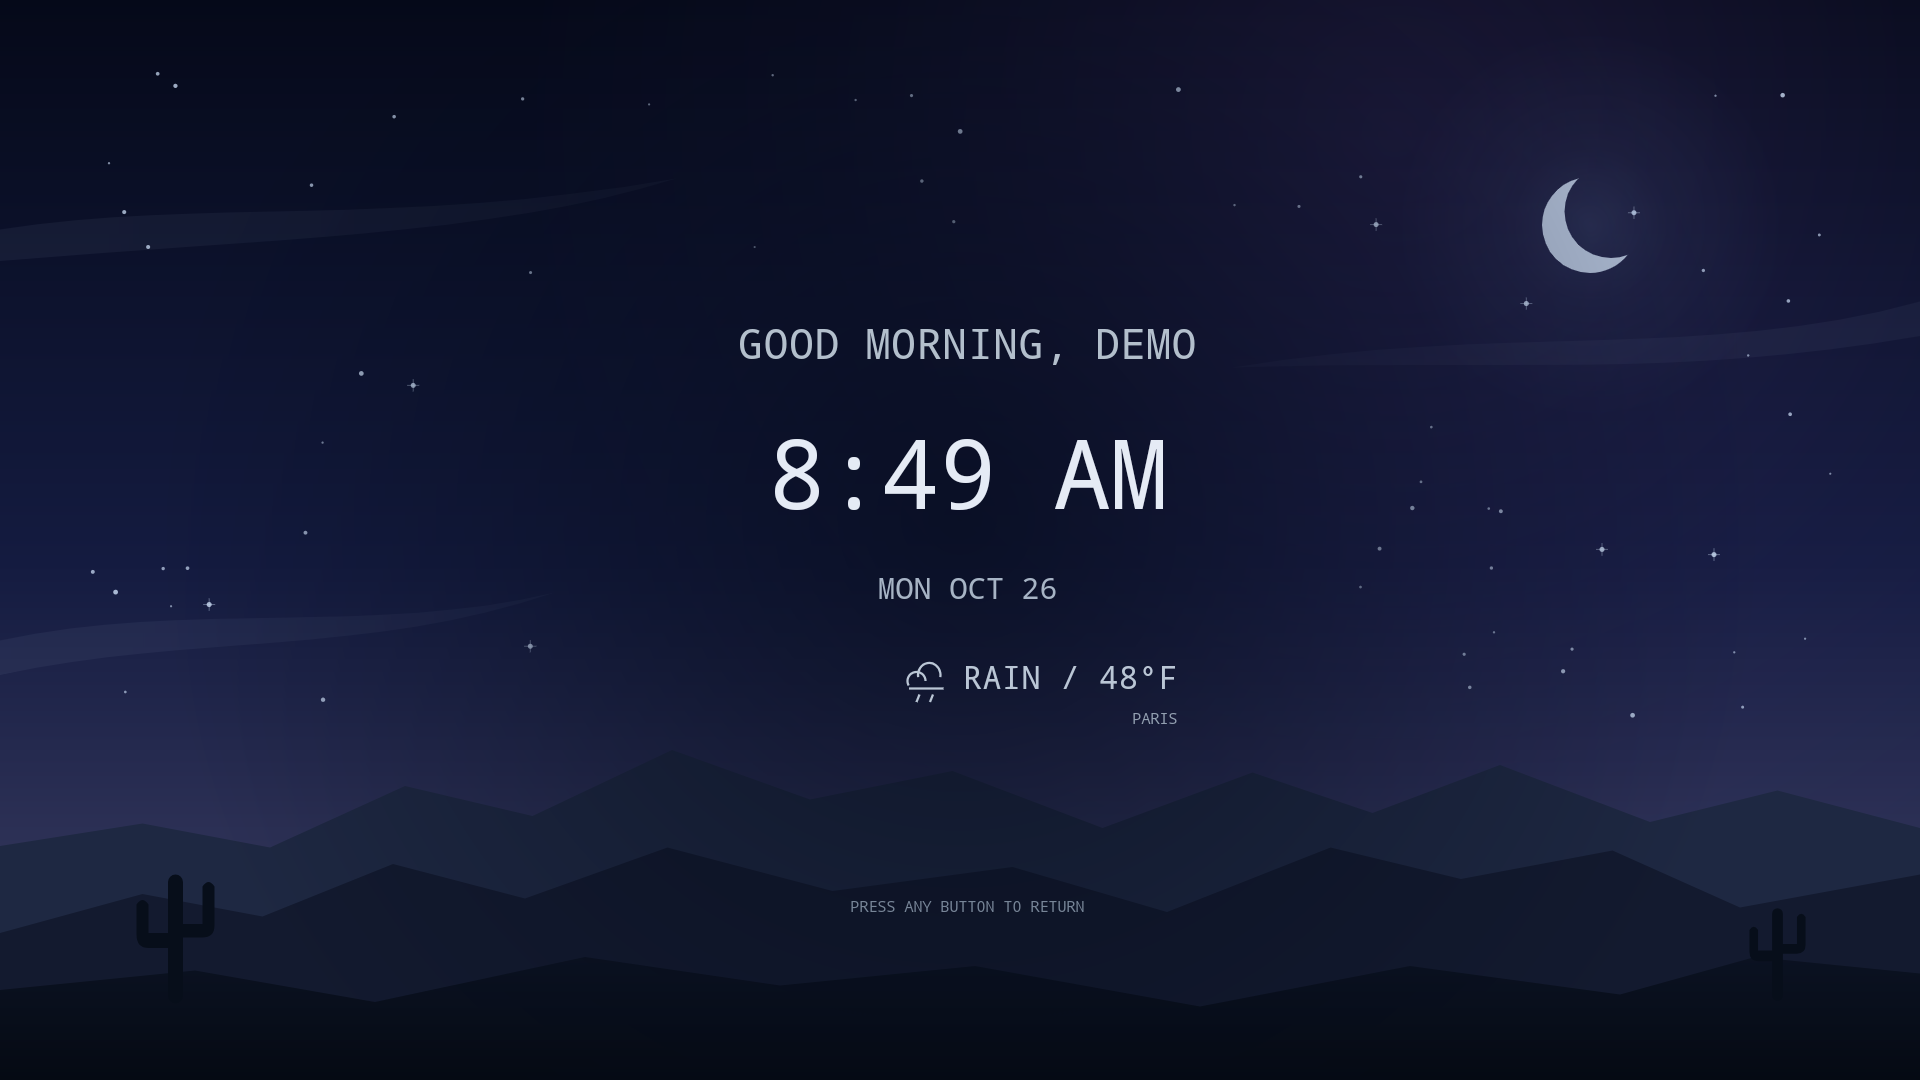
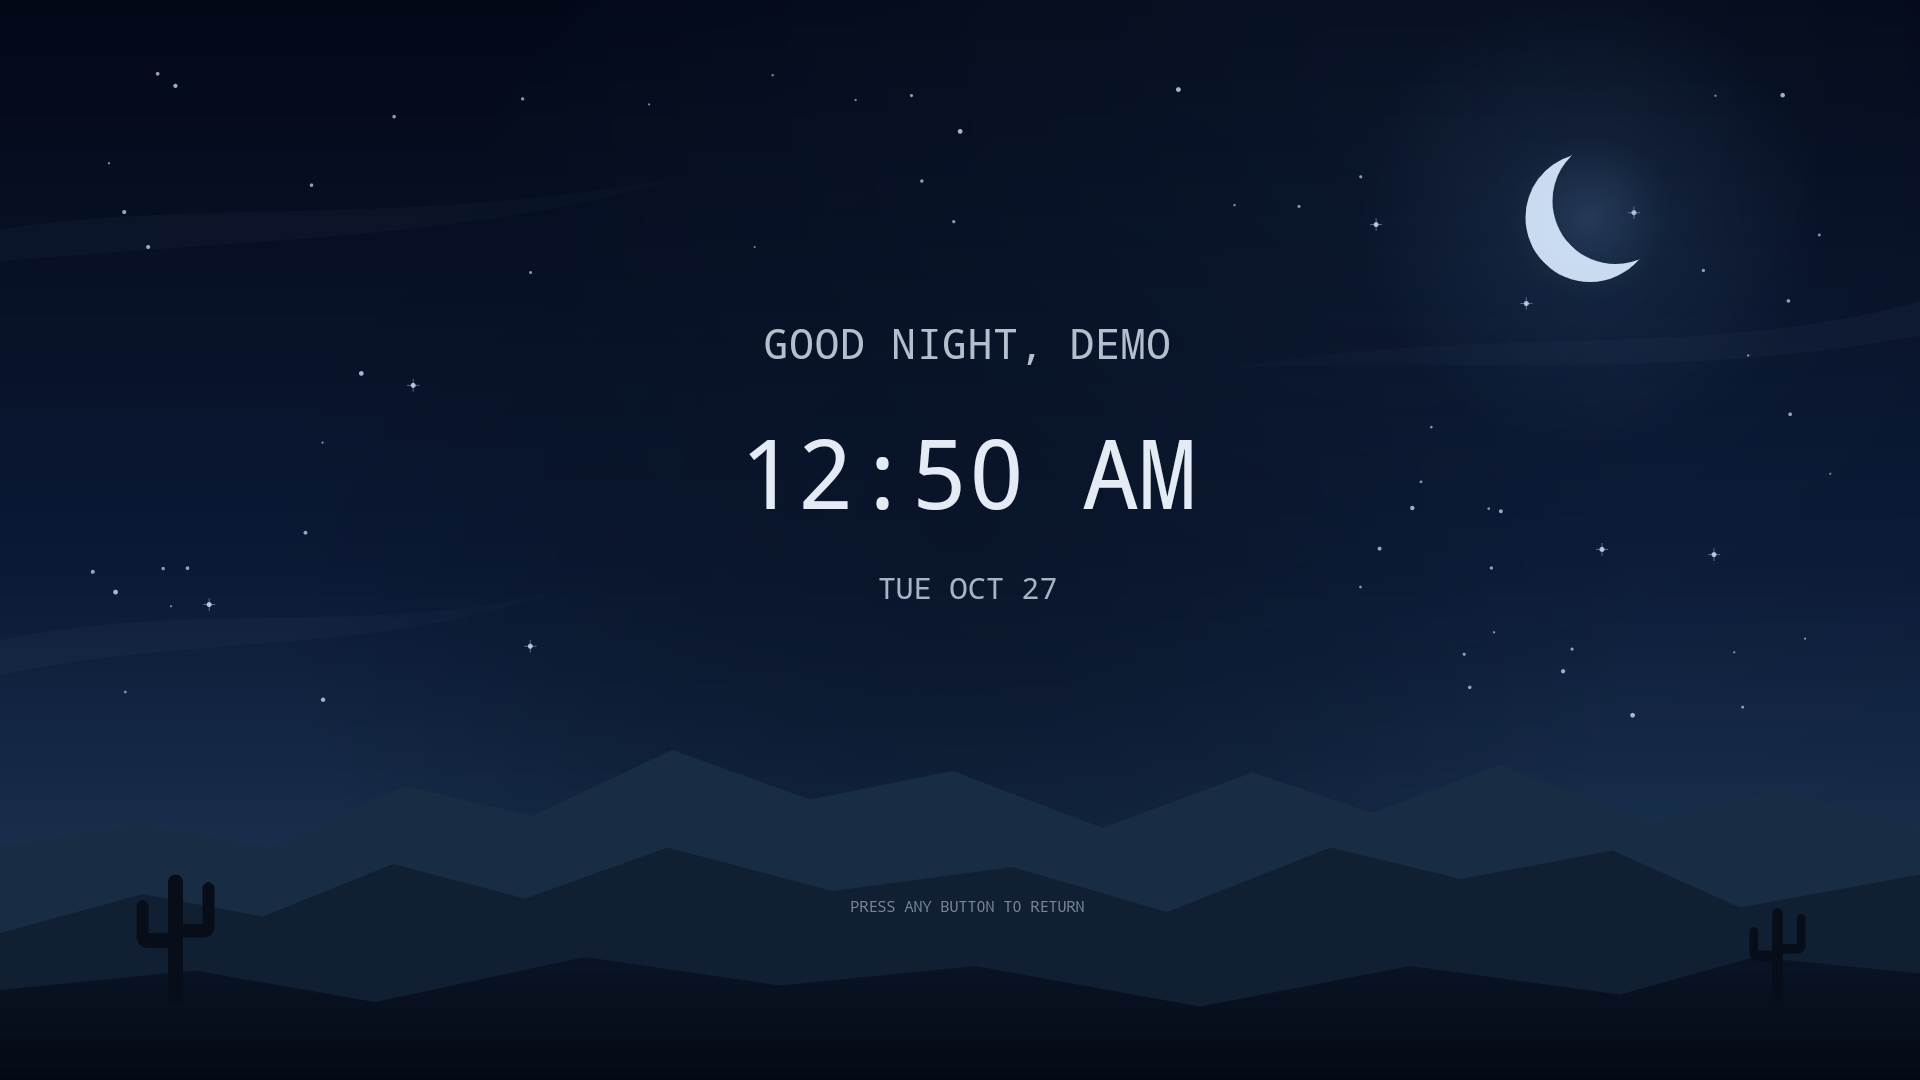
Give seasonal idle skies distinct morning, midday, sunset and night looks

diff --git a/app/src/com/quiettv/home/IdleSky.java b/app/src/com/quiettv/home/IdleSky.java
@@ -3,33 +3,36 @@ import android.graphics.*;
 
 /** Cached procedural sky. No animation loop or downloaded assets. */
 final class IdleSky {
-    private static final int[] TIMES={0,300,390,540,900,1065,1170,1260,1440};
+    // Night, predawn, sunrise, morning, solar noon, afternoon, sunset, twilight, night.
+    // SolarDay supplies dated anchors so the looks move with the seasons.
     private static final int[][] COLORS={
-        {0x050919,0x141b40,0x35385d,0xc3daf5},{0x10122f,0x4c305c,0xa95778,0xffc7a5},
-        {0x1d3056,0x9b5c7b,0xffb177,0xffe5b0},{0x102f50,0x226b86,0x77b9bb,0xffefbf},
-        {0x1b3b58,0x4c7c89,0xc6a477,0xffdda0},{0x241745,0xa94270,0xff994c,0xffd58b},
-        {0x101234,0x473569,0x9e5a86,0xd2ccff},{0x050919,0x141b40,0x35385d,0xc3daf5},
-        {0x050919,0x141b40,0x35385d,0xc3daf5}
+        {0x030817,0x0b1935,0x1c3552,0xc5e1ff},{0x0e2144,0x3e6683,0xb8a3a5,0xffe0b1},
+        {0x183d64,0x638c9e,0xf3b88a,0xffe9b5},{0x23566e,0x679d9c,0xd5dcb3,0xfff2ce},
+        {0x174b78,0x388caf,0xa0ced7,0xfff5dd},{0x243f6b,0x597f99,0xd6b18c,0xffe0a3},
+        {0x2e153f,0x8c3d5c,0xf6874c,0xffc47c},{0x111333,0x39315c,0x9a5775,0xe3d4ff},
+        {0x030817,0x0b1935,0x1c3552,0xc5e1ff},{0x030817,0x0b1935,0x1c3552,0xc5e1ff}
     };
     private final Paint paint=new Paint(Paint.ANTI_ALIAS_FLAG);
     private final Path far=new Path(),middle=new Path(),near=new Path(),moon=new Path(),cacti=new Path();
     private final Path cloudLeft=new Path(),cloudRight=new Path(),cloudLow=new Path();
-    private final Path sun=new Path();
+    private final Path sun=new Path(),sunsetBands=new Path();
     private final float[] starPoints=new float[64*3];
-    private final Shader centerShade=new RadialGradient(640,345,540,new int[]{0xb0040a19,0x40040a19,0x00040a19},new float[]{0,.62f,1},Shader.TileMode.CLAMP);
-    private final Shader moonHalo=new RadialGradient(1060,150,130,new int[]{0x34677eaf,0x14677eaf,0x00677eaf},new float[]{0,.4f,1},Shader.TileMode.CLAMP);
-    private final Shader nebula=new RadialGradient(930,90,590,new int[]{0x35694c9e,0x0c694c9e,0x00694c9e},new float[]{0,.65f,1},Shader.TileMode.CLAMP);
-    private Shader sky,halo,horizonGlow,land,cloudColor,orb;
+    private final Shader centerShade=new RadialGradient(640,345,460,new int[]{0xa3071122,0x55071122,0x00071122},new float[]{0,.56f,1},Shader.TileMode.CLAMP);
+    private final Shader moonHalo=new RadialGradient(1060,145,155,new int[]{0x456b9ed0,0x166b9ed0,0x006b9ed0},new float[]{0,.35f,1},Shader.TileMode.CLAMP);
+    private final Shader nebula=new RadialGradient(930,90,590,new int[]{0x222c527f,0x0a2c527f,0x002c527f},new float[]{0,.65f,1},Shader.TileMode.CLAMP);
+    private Shader sky,halo,horizonGlow,land,cloudColor,orb,mist;
     private int cachedMinute=-1,cachedRise=-1,cachedSet=-1,sunColor,farColor,middleColor;
-    private float sunX,sunY,daylight,stars,sunOpacity,warmth;
+    private float sunX,sunY,daylight,stars,sunOpacity,warmth,dusk,morningMist,sunRadius;
     IdleSky(){
         ridge(far,new float[]{0,564,95,549,180,565,270,524,355,544,448,500,540,533,635,514,735,552,835,515,915,542,1000,510,1100,548,1185,527,1280,552});
         ridge(middle,new float[]{0,622,95,596,175,611,262,576,350,599,445,565,555,594,675,578,778,608,887,565,974,586,1075,567,1160,605,1280,583});
         ridge(near,new float[]{0,660,130,647,250,668,390,638,520,657,650,644,800,671,940,644,1080,663,1170,638,1280,649});
-        moon.addCircle(0,0,32,Path.Direction.CW);Path cut=new Path();cut.addCircle(14,-9,31,Path.Direction.CW);moon.op(cut,Path.Op.DIFFERENCE);
+        moon.addCircle(0,0,43,Path.Direction.CW);Path cut=new Path();cut.addCircle(17,-11,42,Path.Direction.CW);moon.op(cut,Path.Op.DIFFERENCE);
         cloudLeft.moveTo(0,153);cloudLeft.cubicTo(135,132,261,152,451,119);cloudLeft.cubicTo(326,158,174,159,0,174);cloudLeft.close();
         cloudRight.moveTo(822,245);cloudRight.cubicTo(1003,215,1135,241,1280,201);cloudRight.lineTo(1280,224);cloudRight.cubicTo(1111,253,1008,239,822,245);cloudRight.close();
         cloudLow.moveTo(0,427);cloudLow.cubicTo(125,400,249,424,370,395);cloudLow.cubicTo(243,438,130,422,0,450);cloudLow.close();
+        sunsetBands.moveTo(775,393);sunsetBands.cubicTo(939,368,1124,383,1280,350);sunsetBands.lineTo(1280,361);sunsetBands.cubicTo(1110,395,936,381,775,393);sunsetBands.close();
+        sunsetBands.moveTo(892,452);sunsetBands.cubicTo(1038,431,1182,449,1280,423);sunsetBands.lineTo(1280,432);sunsetBands.cubicTo(1154,460,1020,441,892,452);sunsetBands.close();
         cactus(117,667,1);cactus(1185,666,.72f);
         java.util.Random random=new java.util.Random(418);
         for(int i=0;i<64;i++){float x,y;do{x=55+random.nextFloat()*1170;y=45+random.nextFloat()*465;}while(x>365&&x<900&&y>180&&y<505);starPoints[i*3]=x;starPoints[i*3+1]=y;starPoints[i*3+2]=.65f+random.nextFloat()*1.05f;}
@@ -46,32 +49,43 @@ final class IdleSky {
     private static int mix(int a,int b,float t){return Color.rgb(Math.round(Color.red(a)+(Color.red(b)-Color.red(a))*t),Math.round(Color.green(a)+(Color.green(b)-Color.green(a))*t),Math.round(Color.blue(a)+(Color.blue(b)-Color.blue(a))*t));}
     private static int alpha(int color,int a){return (color&0xffffff)|(Math.max(0,Math.min(255,a))<<24);}
     private void prepare(int minute,int rise,int set,boolean seasonal){
-        int keyRise=seasonal?rise:-1,keySet=seasonal?set:-1;if(minute==cachedMinute&&keyRise==cachedRise&&keySet==cachedSet)return;
-        cachedMinute=minute;cachedRise=keyRise;cachedSet=keySet;int[] times=seasonal?SolarDay.anchors(rise,set):TIMES;int i=0;while(i<times.length-2&&minute>=times[i+1])i++;
+        if(!seasonal){rise=360;set=1110;}
+        if(minute==cachedMinute&&rise==cachedRise&&set==cachedSet)return;
+        cachedMinute=minute;cachedRise=rise;cachedSet=set;int[] times=SolarDay.anchors(rise,set);int i=0;while(i<times.length-2&&minute>=times[i+1])i++;
         float blend=smooth((minute-times[i])/(float)(times[i+1]-times[i]));
         int top=mix(COLORS[i][0],COLORS[i+1][0],blend),mid=mix(COLORS[i][1],COLORS[i+1][1],blend),horizon=mix(COLORS[i][2],COLORS[i+1][2],blend);
         sunColor=mix(COLORS[i][3],COLORS[i+1][3],blend);sky=new LinearGradient(0,0,0,625,new int[]{top,mid,horizon},new float[]{0,.60f,1},Shader.TileMode.CLAMP);
-        daylight=seasonal?smooth((minute-(rise-40))/55f)*(1-smooth((minute-(set-15))/60f)):smooth((minute-315)/105f)*(1-smooth((minute-1080)/90f));stars=1-daylight;
-        sunOpacity=seasonal?smooth((minute-rise)/12f)*(1-smooth((minute-(set-12))/12f)):daylight;
-        float progress=seasonal?clamp((minute-rise)/(float)(set-rise)):clamp((minute-360)/750f);
-        warmth=1-smooth(Math.min(Math.abs(minute-rise),Math.abs(minute-set))/115f);
-        sunX=210+860*progress;sunY=565-440*(float)Math.sin(Math.PI*progress);
-        halo=new RadialGradient(sunX,sunY,320,new int[]{alpha(sunColor,Math.round((90+70*warmth)*daylight)),alpha(sunColor,Math.round(35*daylight)),alpha(sunColor,0)},new float[]{0,.4f,1},Shader.TileMode.CLAMP);
-        horizonGlow=new RadialGradient(sunX,585,560,new int[]{alpha(0xffffa568,Math.round(85*warmth)),alpha(0xffff725d,Math.round(35*warmth)),0x00ff725d},new float[]{0,.4f,1},Shader.TileMode.CLAMP);
-        cloudColor=new LinearGradient(0,0,1280,0,new int[]{alpha(sunColor,Math.round(42*daylight+14*stars)),alpha(sunColor,8),alpha(sunColor,Math.round(50*daylight+12*stars))},new float[]{0,.5f,1},Shader.TileMode.CLAMP);
-        orb=new LinearGradient(0,sunY-46,0,sunY+46,0xfffff1cb,mix(0xffffa15f,sunColor,1-warmth),Shader.TileMode.CLAMP);
-        sun.reset();sun.addCircle(sunX,sunY,46,Path.Direction.CW);
-        if(warmth>.01f){Path gaps=new Path();for(int stripe=0;stripe<4;stripe++){float y=sunY+8+stripe*10;gaps.addRect(sunX-50,y,sunX+50,y+(2+stripe*.7f)*warmth,Path.Direction.CW);}sun.op(gaps,Path.Op.DIFFERENCE);}
-        farColor=mix(0xff18243b,horizon,.22f);middleColor=mix(0xff10182c,horizon,.07f);land=new LinearGradient(0,635,0,720,0xff0b1222,0xff050a13,Shader.TileMode.CLAMP);
+        daylight=smooth((minute-(rise-40))/55f)*(1-smooth((minute-(set-15))/60f));stars=1-daylight;
+        sunOpacity=smooth((minute-rise)/12f)*(1-smooth((minute-(set-12))/12f));
+        float progress=clamp((minute-rise)/(float)(set-rise));
+        warmth=1-smooth(Math.min(Math.abs(minute-rise),Math.abs(minute-set))/105f);
+        dusk=smooth((progress-.5f)/.35f)*warmth;
+        morningMist=(1-smooth(progress/.42f))*daylight;
+        sunX=210+860*progress;sunY=562-451*(float)Math.sin(Math.PI*progress);sunRadius=34+8*warmth+26*dusk;
+        halo=new RadialGradient(sunX,sunY,260+80*warmth,new int[]{alpha(sunColor,Math.round((35+85*warmth)*sunOpacity)),alpha(sunColor,Math.round(22*sunOpacity)),alpha(sunColor,0)},new float[]{0,.4f,1},Shader.TileMode.CLAMP);
+        int glow=mix(0xffffd39f,0xffff793f,smooth(progress));
+        horizonGlow=new RadialGradient(sunX,570,500,new int[]{alpha(glow,Math.round((55+45*dusk)*warmth)),alpha(glow,Math.round(24*warmth)),alpha(glow,0)},new float[]{0,.4f,1},Shader.TileMode.CLAMP);
+        mist=new LinearGradient(0,380,0,570,new int[]{0x00c4e2ea,alpha(0xffc4e2ea,Math.round(40*morningMist)),0x00c4e2ea},new float[]{0,.72f,1},Shader.TileMode.CLAMP);
+        cloudColor=new LinearGradient(0,0,1280,0,new int[]{alpha(sunColor,Math.round(52*daylight+7*stars)),alpha(sunColor,5),alpha(sunColor,Math.round(58*daylight+7*stars))},new float[]{0,.5f,1},Shader.TileMode.CLAMP);
+        orb=new LinearGradient(0,sunY-sunRadius,0,sunY+sunRadius,0xfffff6dc,mix(sunColor,0xffff925b,dusk*.8f),Shader.TileMode.CLAMP);
+        sun.reset();sun.addCircle(sunX,sunY,sunRadius,Path.Direction.CW);
+        // The larger banded western sun belongs to dusk; dawn stays clear and soft.
+        if(dusk>.01f){Path gaps=new Path();for(int stripe=0;stripe<5;stripe++){float y=sunY+2+stripe*11;gaps.addRect(sunX-70,y,sunX+70,y+(2+stripe*.8f)*dusk,Path.Direction.CW);}sun.op(gaps,Path.Op.DIFFERENCE);}
+        farColor=mix(0xff17283e,horizon,.27f);middleColor=mix(0xff101c30,horizon,.10f);land=new LinearGradient(0,635,0,720,0xff0a1425,0xff040a15,Shader.TileMode.CLAMP);
     }
     void draw(Canvas canvas,int minute,int rise,int set,boolean seasonal){
         minute=((minute%1440)+1440)%1440;prepare(minute,rise,set,seasonal);paint.setStyle(Paint.Style.FILL);paint.setAlpha(255);paint.setShader(sky);canvas.drawRect(0,0,1280,720,paint);
         paint.setShader(nebula);paint.setAlpha(Math.round(255*stars));canvas.drawRect(0,0,1280,720,paint);paint.setAlpha(255);
-        paint.setShader(horizonGlow);canvas.drawRect(0,0,1280,720,paint);paint.setShader(cloudColor);canvas.drawPath(cloudLeft,paint);canvas.drawPath(cloudRight,paint);canvas.drawPath(cloudLow,paint);paint.setShader(null);
+        paint.setShader(horizonGlow);canvas.drawRect(0,0,1280,720,paint);paint.setShader(mist);canvas.drawRect(0,380,1280,570,paint);
+        paint.setShader(cloudColor);canvas.drawPath(cloudLeft,paint);canvas.drawPath(cloudRight,paint);canvas.drawPath(cloudLow,paint);paint.setShader(null);
+        paint.setColor(alpha(0xffffba91,Math.round(94*dusk)));canvas.drawPath(sunsetBands,paint);
+        // Shade the text's sky backdrop without turning the sun or moon grey.
+        paint.setAlpha(255);paint.setShader(centerShade);canvas.drawRect(0,0,1280,720,paint);paint.setShader(null);
         if(stars>.01f)for(int j=0;j<64;j++){float x=starPoints[j*3],y=starPoints[j*3+1],r=starPoints[j*3+2];paint.setColor(alpha(0xffd5e7ff,Math.round((100+60*r)*stars)));canvas.drawCircle(x,y,r,paint);if(r>1.6f){paint.setStrokeWidth(.65f);paint.setAlpha(Math.round(100*stars));canvas.drawLine(x-4,y,x+4,y,paint);canvas.drawLine(x,y-4,x,y+4,paint);}}
-        paint.setShader(moonHalo);paint.setAlpha(Math.round(255*stars));canvas.drawRect(900,0,1220,320,paint);paint.setShader(null);paint.setColor(alpha(0xffd2e2f7,Math.round(205*stars)));canvas.save();canvas.translate(1060,150);canvas.drawPath(moon,paint);canvas.restore();
+        paint.setShader(moonHalo);paint.setAlpha(Math.round(255*stars));canvas.drawRect(900,0,1220,320,paint);paint.setShader(null);paint.setColor(alpha(0xffd9eaff,Math.round(235*stars)));canvas.save();canvas.translate(1060,145);canvas.drawPath(moon,paint);canvas.restore();
         paint.setAlpha(255);paint.setShader(halo);canvas.drawRect(0,0,1280,625,paint);paint.setShader(orb);paint.setAlpha(Math.round(240*sunOpacity));canvas.drawPath(sun,paint);paint.setShader(null);
         paint.setColor(farColor);canvas.drawPath(far,paint);paint.setColor(middleColor);canvas.drawPath(middle,paint);paint.setAlpha(255);paint.setShader(land);canvas.drawPath(near,paint);paint.setShader(null);paint.setColor(0xff070e1a);canvas.drawPath(cacti,paint);
-        paint.setAlpha(255);paint.setShader(centerShade);canvas.drawRect(0,0,1280,720,paint);paint.setShader(null);
     }
 }
+
+

diff --git a/app/src/com/quiettv/home/MainActivity.java b/app/src/com/quiettv/home/MainActivity.java
@@ -101,7 +101,7 @@ public class MainActivity extends Activity {
         try{org.json.JSONArray rows=new org.json.JSONArray(value);for(int i=0;i<Math.min(16,rows.length());i++){org.json.JSONObject row=rows.getJSONObject(i);SolarDay day=SolarDay.forDate(row.optLong("rise",0),row.optLong("set",0),now);if(day!=null){cachedSolarDay=day;break;}}}catch(org.json.JSONException ignored){}
         return cachedSolarDay;
     }
-    int previewSkyMinute(int choice){SolarDay day=solarDay();return day==null?new int[]{-1,390,720,1065,1320}[choice]:day.previewMinute(choice);}
+    int previewSkyMinute(int choice){SolarDay day=solarDay();return day==null?new int[]{-1,372,547,735,1098,1230}[choice]:day.previewMinute(choice);}
     void solarInfo(){
         SolarDay day=solarDay();TvProfile.City city=profileCity();String message=(city==null?"Choose a city in Settings → City and time":city.label())+" / "+TvProfile.zone().getID()+"\n\n";
         if(day==null)message+="Daily sun times are unavailable. The sky temporarily uses preset times until it can refresh.";
@@ -307,7 +307,7 @@ public class MainActivity extends Activity {
         String[] items={"Choose idle delay","Preview idle screen",prefs.getBoolean("keepQuietScreen",true)?"Keep Quiet TV on screen: On":"Keep Quiet TV on screen: Off","Idle background","Today's sun times"};
         menu("Idle clock",items,(d,n)->{
             if(n==0)choice("Show idle clock after","idleMinutes",new String[]{"Never","2 minutes","5 minutes","10 minutes"},new int[]{0,2,5,10},2);
-            else if(n==1)showDialog(new AlertDialog.Builder(this).setTitle("Preview idle sky").setItems(new String[]{"Current time","Sunrise","Daylight","Sunset","Night"},(page,index)->{closeSettings();enterIdle(previewSkyMinute(index));}).setNegativeButton("Back",null).create());
+            else if(n==1)showDialog(new AlertDialog.Builder(this).setTitle("Preview idle sky").setItems(new String[]{"Current time","Sunrise","Morning","Midday","Sunset","Night"},(page,index)->{closeSettings();enterIdle(previewSkyMinute(index));}).setNegativeButton("Back",null).create());
             else if(n==2){boolean enabled=!prefs.getBoolean("keepQuietScreen",true);prefs.edit().putBoolean("keepQuietScreen",enabled).apply();updateScreenHold();updateMenu(d,items,2,enabled?"Keep Quiet TV on screen: On":"Keep Quiet TV on screen: Off");}
             else if(n==3)choice("Idle background","idleSky",new String[]{"Time-of-day sky","Classic plain background"},new int[]{1,0},1);else solarInfo();
         });

diff --git a/app/src/com/quiettv/home/SolarDay.java b/app/src/com/quiettv/home/SolarDay.java
@@ -16,6 +16,6 @@ final class SolarDay {
         int r=minute(rise),s=minute(set);if(r<120||s>1320||s<=r)return null;
         return new SolarDay(rise,set);
     }
-    int previewMinute(int choice){if(choice==1)return riseMinute+12;if(choice==2)return (riseMinute+setMinute)/2;if(choice==3)return setMinute-12;if(choice==4)return Math.min(1439,setMinute+120);return -1;}
-    static int[] anchors(int rise,int set){int noon=(rise+set)/2;return new int[]{0,rise-60,rise,rise+(noon-rise)/2,noon+(set-noon)/2,set,set+35,set+90,1440};}
+    int previewMinute(int choice){int noon=(riseMinute+setMinute)/2;if(choice==1)return riseMinute+12;if(choice==2)return riseMinute+(noon-riseMinute)/2;if(choice==3)return noon;if(choice==4)return setMinute-12;if(choice==5)return Math.min(1439,setMinute+120);return -1;}
+    static int[] anchors(int rise,int set){int noon=(rise+set)/2;return new int[]{0,rise-60,rise+12,rise+(noon-rise)/2,noon,noon+(set-noon)/2,set-12,set+35,set+90,1440};}
 }

diff --git a/docs/VALIDATION.md b/docs/VALIDATION.md
@@ -106,3 +106,9 @@ On the personal TV, a normal app-context schedule refresh included the real next
 +
 +3,947 deterministic Android-runtime checks cover viewport bounds, every selection in lists of up to 100 records, one/two-card capacities, stable focus, reorder/removal, expiry/empty behavior, and retaining more than two live records. A separate preview installation on the TV used clearly labeled five-match demo records to verify real remote scrolling to matches three and five, correct selected IDs for watch actions, fixed footer positions, Upcoming/Past opening and Back, wraparound, Left/Right app navigation, refresh/removal selection, the hundredth record, and stale-LIVE removal. The capture showed demo matches four/five with the 4–5 / 5 indicator. No demo records were saved to the personal application or provider cache. Preview/test packages were removed after verification. Actual simultaneous multi-match playback was not available for an end-to-end real-broadcast test; the existing stream resolver/launcher path is unchanged.
 +
+
+## Distinct seasonal idle skies
+
+Sunrise has a soft, clear eastern sun and cool peach horizon; morning shifts to sage and pale gold; midday has a blue sky and small high sun; sunset has a larger banded western sun, coral horizon and plum sky; night has a brighter crescent, static stars and deeper navy. A dedicated solar-noon palette anchor separates morning from afternoon. The center sky is shaded for text contrast without dimming celestial objects. Sunrise/sunset and all intermediate anchors still follow the validated daily solar events; unavailable solar data uses the existing fallback daylight period. No new service, permission, download, animation loop or refresh interval was added. Paths and gradients remain cached between minute/day changes. Settings now includes separate Morning and Midday previews.
+
+The production and shared preview builds passed. A separate preview package on the Fire TV passed 89 checks covering cached shader reuse, distinct dawn/dusk palettes and sun positions, night visibility, ordered anchors across accepted short/long daylight bounds, color continuity at boundaries and midnight, changed-day cache invalidation, all five preview choices and remote wake. Five full device captures were visually reviewed for scene identity and text legibility. Preview fixtures used a generic Demo profile and representative dated solar times; the displayed clock/greeting stayed live. The personalized installation was updated without clearing data; its preview picker was checked through the remote interface. The previous signed APK and source were retained. Full-day real-time observation and instrumented power measurements were not performed.

diff --git a/README.md b/README.md
@@ -10,7 +10,7 @@ Quiet TV is a lightweight, customizable Fire TV launcher built to clear away the
 
 The goal is simple: turn on your TV and get straight to what you want. Your apps, clock, weather, and ambient visuals come together in a clean, remote-friendly menu. Choose which apps appear, arrange them your way, and give your TV a look that feels like yours.
 
-App-inspired colors and logos respond as you browse, while an idle display shifts through sunrise, daylight, sunset, and night. Appearance controls, optional smart lighting, and a warm evening screen filter let you adjust the atmosphere without filling the menu with distractions.
+App-inspired colors and logos respond as you browse, while an idle display shifts from cool peach sunrise and soft golden mornings to blue midday skies, coral-and-plum sunsets, and deep navy nights. Appearance controls, optional smart lighting, and a warm evening screen filter let you adjust the atmosphere without filling the menu with distractions.
 
 ## What it does
 
